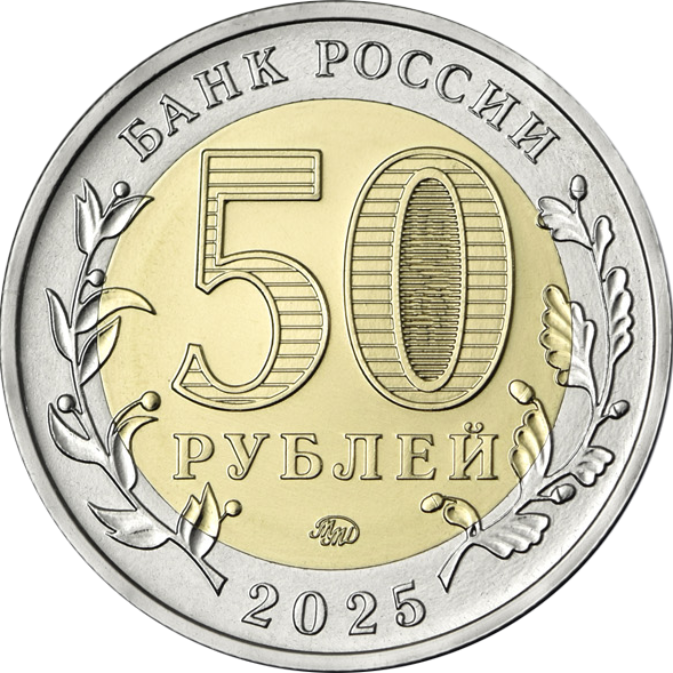
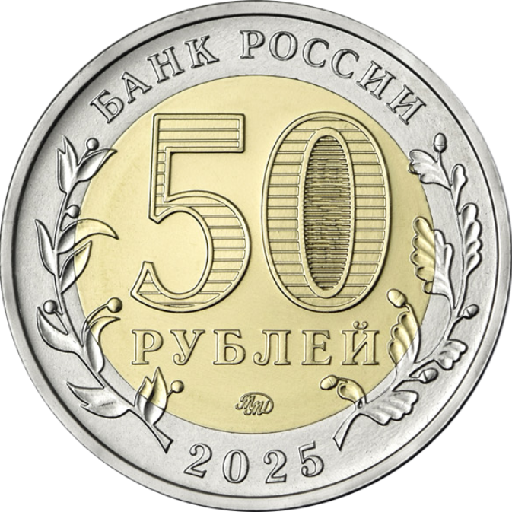
1) Изменены размеры картинок для экономии памяти 2) Переименовано приложение в Unions

diff --git a/assets/ui/MainMenu.html b/assets/ui/MainMenu.html
@@ -8,7 +8,7 @@
     <body>
 
         <div id="head">
-            <h1>Гравитация</h1>
+            <h1>Объединялы</h1>
         </div>
 
         <div id="main">

diff --git a/src/Core/BaseFolder.hpp b/src/Core/BaseFolder.hpp
@@ -4,21 +4,7 @@
 #include <filesystem>
 
 inline static std::filesystem::path assets;
-
-// #ifdef ANDROID
-//     "./"
-// #else
-//     "assets"
-// #endif
-//     ;
-
 inline static std::filesystem::path workFolder;
-// #ifdef ANDROID
-//     ""
-// #else
-//     "./"
-// #endif
-//     ;
 
 static void initWolders()
 {
@@ -28,7 +14,7 @@ static void initWolders()
     workFolder = SDL_GetPrefPath("igorantivirus", "new_sdl");
 
 #else
-    assets = "../assets";
-    workFolder = "./";
+    assets = "assets";
+    workFolder = "";
 #endif
 }

diff --git a/app/src/main/java/com/igorantivirus/unions/MainActivity.java b/app/src/main/java/com/igorantivirus/unions/MainActivity.java
@@ -1,10 +1,10 @@
-package com.igorantivirus.new_sdl;
+package com.igorantivirus.unions;
 
 import org.libsdl.app.SDLActivity;
 
 public class MainActivity extends SDLActivity {
     // Название вашей so-библиотеки (без 'lib' и '.so')
     @Override protected String[] getLibraries() {
-        return new String[] { "Android-SDL3-Example" };
+        return new String[] { "Unions" };
     }
 }
